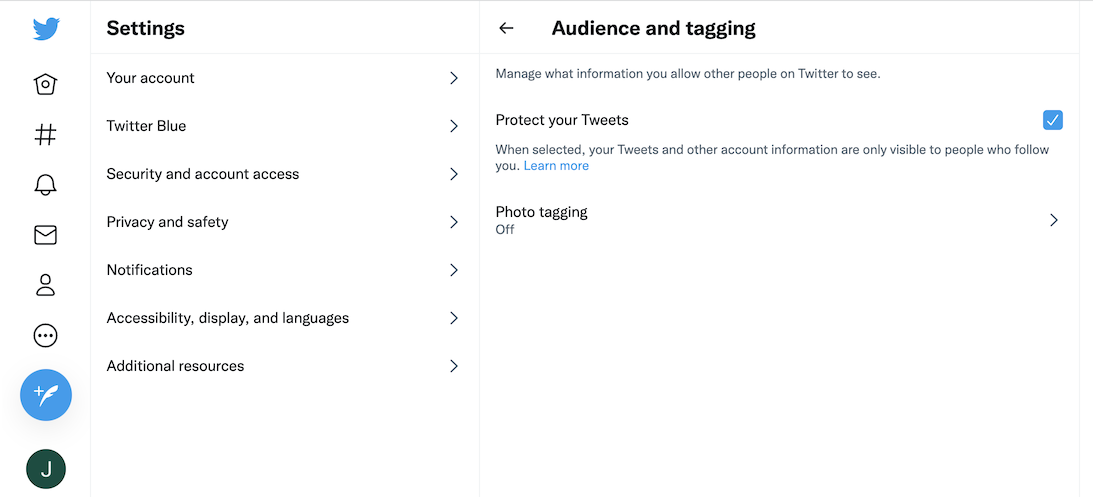
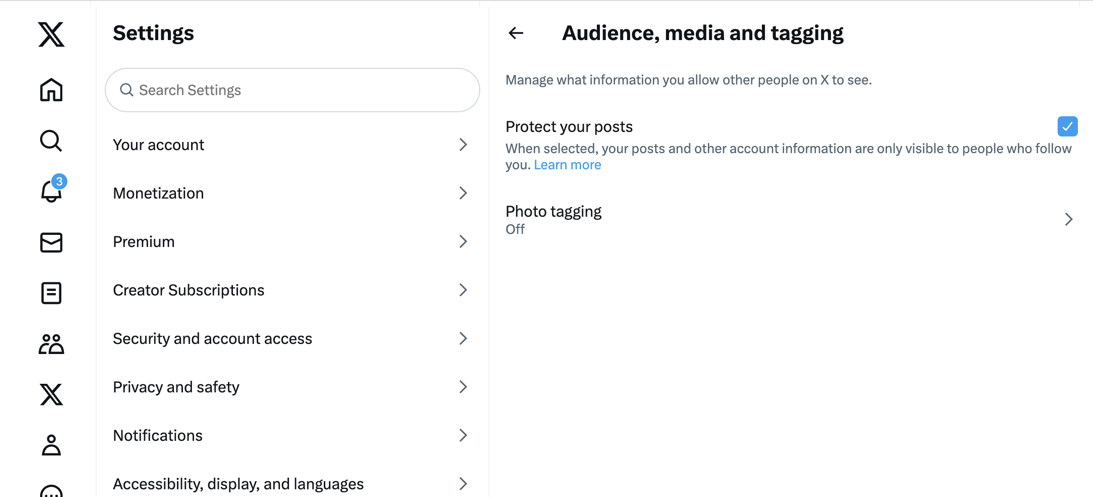
Twitter > X

diff --git a/help/v8/connect/ac-tw.md b/help/v8/connect/ac-tw.md
@@ -1,45 +1,45 @@
 ---
-title: Work with Campaign and Twitter
-description: Learn how to integrate your Campaign environment with Twitter
+title: Work with Campaign and X (Twitter)
+description: Learn how to integrate your Campaign environment with X (formerly known as Twitter)
 role: User, Admin
 feature: Social Marketing
 level: Beginner, Intermediate
 exl-id: 5523217a-b95f-4639-b941-52eb7d5a0203
 ---
-# Work with Campaign and Twitter {#tw-ac-ovv}
+# Work with Campaign and X (Twitter) {#tw-ac-ovv}
 
-The **Managing social networks (Social Marketing)** module lets you interact with your customers via Twitter. Use this capability to:
+The **Managing social networks (Social Marketing)** module lets you interact with your customers via X (formerly known as Twitter). Use this capability to:
 
-* Post messages and send DMs - Use Adobe Campaign Social Marketing to post messages on Twitter. You can also send direct messages to all your followers.
+* Post messages and send DMs - Use Adobe Campaign Social Marketing to post messages on X. You can also send direct messages to all your followers.
 
 * Collect new contacts - Adobe Campaign Social Marketing also makes it easy to acquire new contacts: contact users and ask them if they want to share their profile information. If they accept, Adobe Campaign automatically recovers the data, which enables you to carry out targeting campaigns and, when possible, to implement cross-channel strategies.
 
-![](../assets/do-not-localize/speech.png) As a Managed Cloud Services user, [contact Adobe](../start/campaign-faq.md#support) to connect Campaign with Twitter. The  **Managing social networks (Social Marketing)** add-on must be installed on your environment, through the dedicated package, and the Twitter External Account must be configured.
+![](../assets/do-not-localize/speech.png) As a Managed Cloud Services user, [contact Adobe](../start/campaign-faq.md#support) to connect Campaign with X. The  **Managing social networks (Social Marketing)** add-on must be installed on your environment, through the dedicated package, and the Twitter External Account must be configured.
 
 
-To configure Adobe Campaign to post tweets to your Twitter accounts, delegate write access to Adobe Campaign for these accounts. To do this, you must:
+To configure Adobe Campaign to post tweets to your X accounts, delegate write access to Adobe Campaign for these accounts. To do this, you must:
 
-1. Create a Twitter account and sign up for a developer account. [Learn more](#dev-account)
-1. (optional) Create a test Twitter account for sending proofs. [Learn more](#tw-test-account)
-1. Create a Twitter application (one app per Twitter account). [Learn more](#create-an-app-on-twitter)
-1. Create a new service for **[!UICONTROL Twitter]** (one service per Twitter account). [Learn more](#create-tw-service)
-1. Synchronize your Twitter account with Campaign. [Learn more](#synchro-tw-accounts)
+1. Create a X account and sign up for a developer account. [Learn more](#dev-account)
+1. (optional) Create a test X account for sending proofs. [Learn more](#tw-test-account)
+1. Create a X application (one app per X account). [Learn more](#create-an-app-on-twitter)
+1. Create a new service for **[!UICONTROL Twitter]** (one service per X account). [Learn more](#create-tw-service)
+1. Synchronize your X account with Campaign. [Learn more](#synchro-tw-accounts)
 
-## Twitter developer account {#dev-account}
+## X developer account {#dev-account}
 
-To start with this integration, you must sign up for a [Twitter developer account](https://developer.twitter.com){target="_blank"}.
+To start with this integration, you must sign up for a [X developer account](https://developer.twitter.com){target="_blank"}.
 
-Campaign uses the 1.1 version of the Twitter API. To use it, you need to apply for Elevated access via the Developer Portal. Learn more about Twitter Elevated Access [in this page](https://developer.twitter.com/en/portal/products/elevated){target="_blank"}.
+Campaign uses the 1.1 version of the X API. To use it, you need to apply for Elevated access via the Developer Portal. Learn more about X Elevated Access [in this page](https://developer.twitter.com/en/portal/products/elevated){target="_blank"}.
 
-## Create an application on Twitter {#create-an-app-on-twitter}
+## Create an application on X {#create-an-app-on-twitter}
 
-Once you have been approved with Elevated access, create a Twitter application to enable Adobe Campaign to post tweets to your Twitter account. To do this, follow the steps below:
+Once you have been approved with Elevated access, create a X application to enable Adobe Campaign to create posts on your X account. To do this, follow the steps below:
 
-1. Log on to your Twitter account.
-1. Connect to [Twitter developer portal](https://developer.twitter.com/en/apps).
+1. Log on to your X account.
+1. Connect to [X developer portal](https://developer.twitter.com/en/apps).
 1. Select **Create an App**.
-1. Let Twitter assistant guide you through the process.
-1. To allow Adobe Campaign to post tweets to your account, edit to the **App permissions** from the User authentication set up section of your app. Select **Read, Write, and Direct Messages**. 
+1. Let X assistant guide you through the process.
+1. To allow Adobe Campaign to create posts on your account, edit to the **App permissions** from the User authentication set up section of your app. Select **Read, Write, and Direct Messages**. 
 
    ![](assets/tw-permissions.png)
    
@@ -54,21 +54,21 @@ Once you have been approved with Elevated access, create a Twitter application t
 
 >[!NOTE]
 >
->You need one application per Twitter account. As a consequence, you must create another test application to send proofs to your test account.
+>You need one application per X account. As a consequence, you must create another test application to send proofs to your test account.
 >
 
 ## Create a Twitter service in Campaign {#create-tw-service}
 
-To link your Campaign instance with your Twitter account, create a **Twitter** service and delegate write access to Campaign. 
+To link your Campaign instance with your X account, create a **Twitter** service and delegate write access to Campaign. 
 
 >[!CAUTION]
 >
->Create one **Twitter** service per Twitter account. As a consequence, you must create another test service to send proofs to your [test account](#tw-test-account).
+>Create one **Twitter** service per X account. As a consequence, you must create another test service to send proofs to your [test account](#tw-test-account).
 >
 >Each **Twitter** service must also be created by Adobe on your MID instance. Contact your Adobe representative to have your environment configured.
 >
 
-To enter settings, you must access both to your Adobe Campaign Client Console and an your Twitter app permissions.
+To enter settings, you must access both to your Adobe Campaign Client Console and an your X app permissions.
 
 1. In **Adobe Campaign**, browse to the **[!UICONTROL Profiles and targets]** tab, and select the **[!UICONTROL Services and Subscriptions]** link
 1. Create a new service.
@@ -77,7 +77,7 @@ To enter settings, you must access both to your Adobe Campaign Client Console an
 
    >[!CAUTION]
    >
-   >The **[!UICONTROL Internal name]** of the service must be the exact same name of your Twitter account. 
+   >The **[!UICONTROL Internal name]** of the service must be the exact same name of your X account. 
    >
 
 1. By default, followers are saved in the **[!UICONTROL Visitors]** folder. You can select another location from the **[!UICONTROL Visitor folder]** field. [Learn more](../send/twitter.md#direct-tw-messages)
@@ -86,11 +86,11 @@ To enter settings, you must access both to your Adobe Campaign Client Console an
    
    >[!NOTE]
    >
-   >The **[!UICONTROL Synchronize subscriptions]** option is enabled by default: this option recovers automatically the list of your Twitter followers so that you can [send them direct messages](../send/twitter.md#direct-tw-messages). Synchronization is performed by a [dedicated technical workflow](#synchro-tw-accounts). 
+   >The **[!UICONTROL Synchronize subscriptions]** option is enabled by default: this option recovers automatically the list of your X followers so that you can [send them direct messages](../send/twitter.md#direct-tw-messages). Synchronization is performed by a [dedicated technical workflow](#synchro-tw-accounts). 
 
-1. From your Twitter app, copy the content of the **API Key** and **[API Key Secret]** fields and paste them into the **[!UICONTROL Consumer key]** and **[!UICONTROL Consumer secret]** fields of your Campaign **Twitter** service.
+1. From your X app, copy the content of the **API Key** and **[API Key Secret]** fields and paste them into the **[!UICONTROL Consumer key]** and **[!UICONTROL Consumer secret]** fields of your Campaign **Twitter** service.
 
-1. From your Twitter app, copy the content of the **Access Token** and **Access Token Secret** fields and paste them into the **[!UICONTROL Access token]** and **[!UICONTROL Access token secret]** fields of your Campaign **Twitter** service.
+1. From your X app, copy the content of the **Access Token** and **Access Token Secret** fields and paste them into the **[!UICONTROL Access token]** and **[!UICONTROL Access token secret]** fields of your Campaign **Twitter** service.
 
 1. In Campaign Client Console, click **[!UICONTROL Save]**. You have now delegated write access to Adobe Campaign.
 
@@ -100,22 +100,21 @@ To check your settings, you can:
 * Browse the **[!UICONTROL Twitter page]** tab: your Twitter account should be displayed. 
    ![](assets/tw-page.png)
 
+## Synchronize your X account {#synchro-tw-accounts}
 
-## Synchronize your Twitter account {#synchro-tw-accounts}
-
-Synchronization between Campaign and Twitter is managed through dedicated technical workflows. These workflows are stored in the **[!UICONTROL Administration > Production > Technical workflows > Managing social networks]** folder. 
+Synchronization between Campaign and X is managed through dedicated technical workflows. These workflows are stored in the **[!UICONTROL Administration > Production > Technical workflows > Managing social networks]** folder. 
 
 They are stopped by default: you must start them manualy when you start using the **Social Marketing** module.
 
-The **[!UICONTROL Synchronization of Twitter accounts]** technical workflow synchronizes Twitter accounts in Adobe Campaign. This workflow recovers the list of Twitter followers so that you can send them direct messages. [Learn more](../send/twitter.md#direct-tw-messages)
+The **[!UICONTROL Synchronization of Twitter accounts]** technical workflow synchronizes X accounts in Adobe Campaign. This workflow recovers the list of X followers so that you can send them direct messages. [Learn more](../send/twitter.md#direct-tw-messages)
 
 By default, this workflow is triggered every Thursday at 7:30AM. You can use the **[!UICONTROL Execute pending task(s) now]** option to start the workflow at any time as you are implementing this integration.  You can also edit the scheduler to change the workflow triggering frequency. Learn more in [this page](../../automation/workflow/scheduler.md).
 
 >[!CAUTION]
 >
->To recover the list of Twitter subscribers, the **[!UICONTROL Twitter account synchronization]** option must be checked for the service linked to the account. [Learn more](#create-tw-service)
+>To recover the list of X subscribers, the **[!UICONTROL Twitter account synchronization]** option must be checked for the service linked to the account. [Learn more](#create-tw-service)
 
-The followers are stored in a specific table: the visitors table. To display the list of Twitter followers, browse to the **[!UICONTROL Profiles and Targets > Visitors]**.
+The followers are stored in a specific table: the visitors table. To display the list of X followers, browse to the **[!UICONTROL Profiles and Targets > Visitors]**.
 
 For each follower, Adobe Campaign stores the following information:
 
@@ -126,16 +125,16 @@ For each follower, Adobe Campaign stores the following information:
 * **[!UICONTROL Number of friends]**: number of followers
 * **[!UICONTROL Checked]**: this field indicates whether the user has a verified Twitter account
 
-Once this configuration is done, you can post tweets to your Twitter accounts and send direct messages to your followers. [Learn more](../send/twitter.md)
+Once this configuration is done, you can create posts on your X accounts and send direct messages to your followers. [Learn more](../send/twitter.md)
 
-## Create a test account on Twitter {#tw-test-account}
+## Create a test account on X {#tw-test-account}
 
-In addition to Twitter account, create a private Twitter account which can be used for sending [tweet proofs](../send/twitter.md#send-tw-proofs). To do this, follow the steps below:
+In addition to X account, create a private X account which can be used for sending [tweet proofs](../send/twitter.md#send-tw-proofs). To do this, follow the steps below:
 
-1. Create a new Twitter account.
+1. Create a new X account.
 1. Access the account  **Settings**.
-1. Browse to **Privacy & Safety** and **Audience and Tagging** and check the **Protect your Tweets** option. Your Tweets and other account information are only visible to people who follow you.
+1. Browse to **Privacy & Safety** and **Audience and Tagging** and check the **Protect your posts** option. Your posts and other account information are only visible to people who follow you.
 
 ![](assets/social_tw_test_page.png)
 
-Configure your Twitter app and Campaign service to work with this test account, as described above.
+Configure your X app and Campaign service to work with this test account, as described above.

diff --git a/help/v8/send/twitter.md b/help/v8/send/twitter.md
@@ -1,29 +1,29 @@
 ---
-title: Post messages on Twitter with Adobe Campaign
-description: Learn how to use Adobe Campaign Social Marketing module to post messages on Twitter and send direct messages to your followers
+title: Post messages on X (Twitter) with Adobe Campaign
+description: Learn how to use Adobe Campaign Social Marketing module to post messages on X (formerly known as Twitter) and send direct messages to your followers
 role: User
 level: Beginner, Intermediate
 exl-id: 0783e289-ae8e-4bb7-80f1-f90937a528c1
 ---
 
-# Post messages on Twitter with Adobe Campaign {#post-tw-messages}
+# Post messages on X (Twitter) with Adobe Campaign {#post-tw-messages}
 
-Adobe Campaign comes with a **Social Marketing** module which lets you interact with your customers and prospects via Twitter.
+Adobe Campaign comes with a **Social Marketing** module which lets you interact with your customers and prospects via X (formerly known as Twitter).
 
 Once the integration is configured, you can:
 
 * Send direct messages to your followers
-* Post tweets on your Twitter account
+* Post on your X account
 * Collect new contacts by recovering the profile data, which enables you to carry out targeting campaigns and, when possible, to implement cross-channel strategies. This action requires user consent.
 
 
-Configuration steps to integrate your Twitter account with Adobe Campaign are described in [this page](../connect/ac-tw.md).
+Configuration steps to integrate your X account with Adobe Campaign are described in [this page](../connect/ac-tw.md).
 
-## Create and publish a Twitter post {#publish-on-tw}
+## Create and publish a X post {#publish-on-tw}
 
-Follow the steps below to post a message on your Twitter account:
+Follow the steps below to post a message on your X account:
 
-1. Create a Twitter delivery
+1. Create a X delivery
 
     Create a new delivery based on the **[!UICONTROL Tweet (twitter)]** delivery template.
 
@@ -31,24 +31,24 @@ Follow the steps below to post a message on your Twitter account:
 
 1. Select the main target
 
-    Select the account(s) which you want to send tweets to.
+    Select the account(s) which you want to send posts to.
 
    ![](assets/tw-define-target.png)
 
     1. Click the **[!UICONTROL To]** link.
     1. Click the **[!UICONTROL Add]** button.
     1. Select **[!UICONTROL A Twitter account]**.
-    1. In the **[!UICONTROL Folder]** field, select the service folder which contains the Twitter account. Then select the Twitter account which you want to send your tweet to. 
+    1. In the **[!UICONTROL Folder]** field, select the service folder which contains the X account. Then select the X account which you want to send your tweet to. 
 
 1. Select the proof target
 
-    The **[!UICONTROL Target of the proofs]** tab lets you define the Twitter account to use for test deliveries before the final delivery.
+    The **[!UICONTROL Target of the proofs]** tab lets you define the X account to use for test deliveries before the final delivery.
 
-    As detailed in the [configuration steps](../connect/ac-tw.md#tw-test-account), you must create a private test Twitter account dedicated to sending proofs. 
+    As detailed in the [configuration steps](../connect/ac-tw.md#tw-test-account), you must create a private test X account dedicated to sending proofs. 
 
     >[!NOTE]
     >
-    >If you are using the same Twitter test account for all your deliveries, you can save the proof target in the **[!UICONTROL Tweet]** delivery template, accessed via the **[!UICONTROL Resources > Templates > Delivery templates]** node. The proof target will then be entered by default for each new delivery.
+    >If you are using the same X test account for all your deliveries, you can save the proof target in the **[!UICONTROL Tweet]** delivery template, accessed via the **[!UICONTROL Resources > Templates > Delivery templates]** node. The proof target will then be entered by default for each new delivery.
 
 1. Define the content of your post
 
@@ -58,7 +58,7 @@ Follow the steps below to post a message on your Twitter account:
 
     >[!CAUTION]
     >
-    >When posting on Twitter, the limitations apply:
+    >When posting on X, the limitations apply:
     >
     >* The message cannot exceed 140 characters.
     >* HTML format is not supported.
@@ -72,11 +72,11 @@ Follow the steps below to post a message on your Twitter account:
 
     1. Click the **[!UICONTROL Preview]** tab.
     1. Click the **[!UICONTROL Test personalization]** drop-down menu and select **[!UICONTROL Service]**.
-    1. In the **[!UICONTROL Folder]** field, select the service folder which contains your Twitter account. 
+    1. In the **[!UICONTROL Folder]** field, select the service folder which contains your X account. 
 
 1. Send a proof
 
-    Before posting your tweet, make sure to validate it by sending a proof of your publication: you can then get an exact rendering of the publication on a private Twitter test page.
+    Before posting your tweet, make sure to validate it by sending a proof of your publication: you can then get an exact rendering of the publication on a private X test page.
 
 1. Post the message
 
@@ -87,11 +87,11 @@ Follow the steps below to post a message on your Twitter account:
 
 ## Send direct messages to followers {#direct-tw-messages}
 
-The **[!UICONTROL Synchronize Twitter accounts]** technical workflow recovers the list of Twitter followers so that you can send them direct messages. [Learn more](../connect/ac-tw.md#synchro-tw-accounts)
+The **[!UICONTROL Synchronize Twitter accounts]** technical workflow recovers the list of X followers so that you can send them direct messages. [Learn more](../connect/ac-tw.md#synchro-tw-accounts)
 
 To send direct messages to your followers, follow the steps below:
 
-1. Create a Twitter delivery based on the **[!UICONTROL Tweet (Direct Message)]** built-in delivery template.
+1. Create a X delivery based on the **[!UICONTROL Tweet (Direct Message)]** built-in delivery template.
 
 1. Select the main target
 
@@ -107,12 +107,12 @@ To send direct messages to your followers, follow the steps below:
 
 1. Select the proof target from the **[!UICONTROL Target of the proofs]** tab: this account will receive the proof of your direct message. 
 
-    As detailed in the [configuration steps](../connect/ac-tw.md#tw-test-account), you must create a private test Twitter account dedicated to sending proofs. 
+    As detailed in the [configuration steps](../connect/ac-tw.md#tw-test-account), you must create a private test X account dedicated to sending proofs. 
 
 
     >[!NOTE]
     >
-    >If you want to send all your direct message proofs to the same Twitter account, you can save the proof target in the **[!UICONTROL Tweet (Direct Message)]** delivery template, accessed via the **[!UICONTROL Resources > Templates > Delivery templates]** node.
+    >If you want to send all your direct message proofs to the same X account, you can save the proof target in the **[!UICONTROL Tweet (Direct Message)]** delivery template, accessed via the **[!UICONTROL Resources > Templates > Delivery templates]** node.
 
 1. Enter the content of the message in the **[!UICONTROL Content]** tab.
 
@@ -128,11 +128,11 @@ To send direct messages to your followers, follow the steps below:
 
     1. Click the **[!UICONTROL Preview]** tab.
     1. Click the **[!UICONTROL Test personalization]** drop-down menu and select **[!UICONTROL Visitor Subscription]**.
-    1. Choose a Twitter account which you want to test the preview with.
+    1. Choose a X account which you want to test the preview with.
 
 1. Send a proof
 
-    Before sending your message, make sure to validate it by [sending a proof to a test account](../send/preview-and-proof.md): you can then get an exact rendering of the message on a private Twitter account and check content and personalization. 
+    Before sending your message, make sure to validate it by [sending a proof to a test account](../send/preview-and-proof.md): you can then get an exact rendering of the message on a private X account and check content and personalization. 
 
 1. Send the direct message
 

diff --git a/help/v8/start/release-notes-2022.md b/help/v8/start/release-notes-2022.md
@@ -45,20 +45,20 @@ _September 30, 2022_
 <table> 
 <thead>
 <tr> 
-<th> <strong>Twitter channel availability</strong><br /> </th> 
+<th> <strong>X (formerly known as Twitter) channel availability</strong><br /> </th> 
 </tr> 
 </thead> 
 <tbody> 
 <tr> 
-<td> <p>The <a href="../send/twitter.md">Twitter social channel</a> is now available with Campaign v8. You can:</p>
+<td> <p>The <a href="../send/twitter.md">X social channel</a> is now available with Campaign v8. You can:</p>
 <ul> 
-<li><p>Send messages on Twitter: Adobe Campaign lets you post messages directly to your twitter account. You can also send direct messages to all your followers.
+<li><p>Send messages on X (formerly known as Twitter): Adobe Campaign lets you post messages directly to your X account. You can also send direct messages to all your followers.
 </p></li>
 <li><p>Collect new contacts: Adobe Campaign can automatically recovers the profile data, which enables you to carry out targeting campaigns and implement cross-channel strategies.
 </p></li>
 </ul>
-<p>Learn how to connect Campaign and Twitter in the <a href="../connect/ac-tw.md">detailed documentation</a>.</p>
-<p>Learn how to post tweets and send direct messages with Campaign in <a href="../connect/ac-tw.md">this page</a>.</p>
+<p>Learn how to connect Campaign and X in the <a href="../connect/ac-tw.md">detailed documentation</a>.</p>
+<p>Learn how to create posts and send direct messages with Campaign in <a href="../connect/ac-tw.md">this page</a>.</p>
 </td> 
 </tr> 
 </tbody> 

diff --git a/help/v8/TOC.md b/help/v8/TOC.md
@@ -43,7 +43,7 @@ breadcrumb-title: Campaign overview
     + [Configure your push notifications with Data Collection](send/push-data-collection.md)
   + [LINE messaging](send/line.md)
   + [Direct mail](send/direct-mail.md)
-  + [Twitter](send/twitter.md)
+  + [X (Twitter)](send/twitter.md)
   + Personalize content {#personalize}
     + [Get started with personalization](send/personalize.md)
     + [Personalization data](send/personalization-data.md)
@@ -135,7 +135,7 @@ breadcrumb-title: Campaign overview
   + [Campaign + Experience Manager](connect/ac-aem.md)
   + [Campaign + Target](connect/ac-at.md)
   + [Campaign + Experience Cloud triggers](connect/ac-triggers.md)
-  + [Campaign + Twitter](connect/ac-tw.md)
+  + [Campaign + X (Twitter)](connect/ac-tw.md)
   + [Campaign + External database](connect/fda.md)
   + Campaign + your CRM {#ac-crm}
     + [Get started with CRM connectors](connect/crm.md)

diff --git a/help/automation/workflow/social-marketing.md b/help/automation/workflow/social-marketing.md
@@ -40,12 +40,12 @@ The workflows detailed below are installed with the **Social Marketing** module 
   <tr> 
    <td> <span class="uicontrol">Calculation of Twitter statistics</span> <br /> </td> 
    <td> <span class="uicontrol">statsTwitter</span> <br /> </td> 
-   <td> This workflow calculates statistics linked to retweets and visits on Twitter.<br /> </td> 
+   <td> This workflow calculates statistics linked to retweets and visits on X (formerly known as Twitter).<br /> </td> 
   </tr> 
   <tr> 
    <td> <span class="uicontrol">Synchronizing Twitter pages</span> <br /> </td> 
    <td> <span class="uicontrol">syncTwitter</span> <br /> </td> 
-   <td> This workflow imports Twitter followers into Adobe Campaign every day at 7am.<br /> </td> 
+   <td> This workflow imports X followers into Adobe Campaign every day at 7am.<br /> </td> 
   </tr> 
  </tbody> 
 </table>

diff --git a/help/v8/connect/integration.md b/help/v8/connect/integration.md
@@ -50,14 +50,14 @@ Use the FDA Connector (Federated Data Access) to connect Campaign to one or more
 
 ## Work with social media{#gs-social}
 
-Use Adobe Campaign to interact with customers and prospects via Twitter. 
+Use Adobe Campaign to interact with customers and prospects via X (formerly known as Twitter). 
 
 You can:
 
 * Send direct messages to your followers
-* Post tweets on your Twitter account
+* Post on your X account
 * Collect new contacts
 
-Learn how to set up and use Twitter integration in [this page](../connect/ac-tw.md).
+Learn how to set up and use X integration in [this page](../connect/ac-tw.md).
 
-Learn how to create Twitter posts and send direct messages to your followers in [this page](../send/twitter.md).
+Learn how to create X posts and send direct messages to your followers in [this page](../send/twitter.md).

diff --git a/help/v8/config/external-accounts.md b/help/v8/config/external-accounts.md
@@ -91,7 +91,7 @@ In the context of transactional messaging, the execution instances is linked to 
 
     External databases compatible with Adobe Campaign v8 are listed in the [Compatibility matrix](../start/compatibility-matrix.md)
 
-* **Twitter** - The **Twitter** type external account is used to connect Campaign to your twitter account, to post messages on your behalf. Learn more about Twitter integration in [this section](../connect/ac-tw.md).
+* **X (formerly known as Twitter)** - The **Twitter** type external account is used to connect Campaign to your X account, to post messages on your behalf. Learn more about X integration in [this section](../connect/ac-tw.md).
 
 ## Adobe Solution Integration external accounts {#adobe-integration-external-accounts}
 

diff --git a/help/v8/reporting/built-in-reports.md b/help/v8/reporting/built-in-reports.md
@@ -375,7 +375,7 @@ The following reports are also provided built-in. For more on this, refer to the
   </tr> 
   <tr> 
    <td> History of social prospect acquisitions (socialVisitorStatistics)<br /> </td> 
-   <td> History of Twitter and Facebook prospect acquisitions, depends on the Social marketing add-on.<br /> </td> 
+   <td> History of X (formerly known as Twitter) and Facebook prospect acquisitions, depends on the Social marketing add-on.<br /> </td> 
    <td> nms:visitor<br /> </td> 
   </tr> 
   <tr> 
